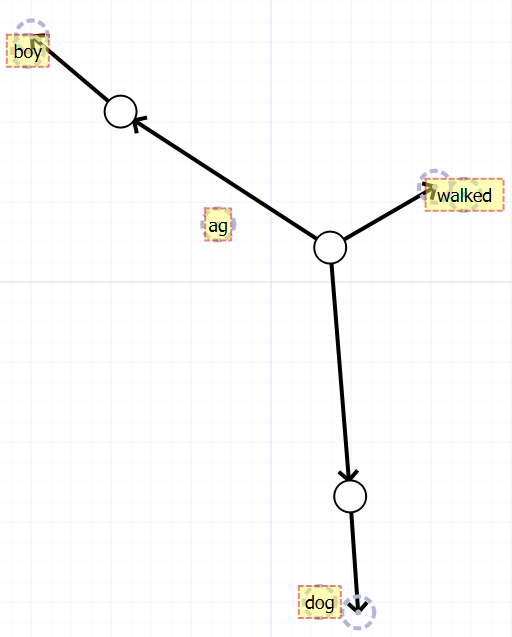
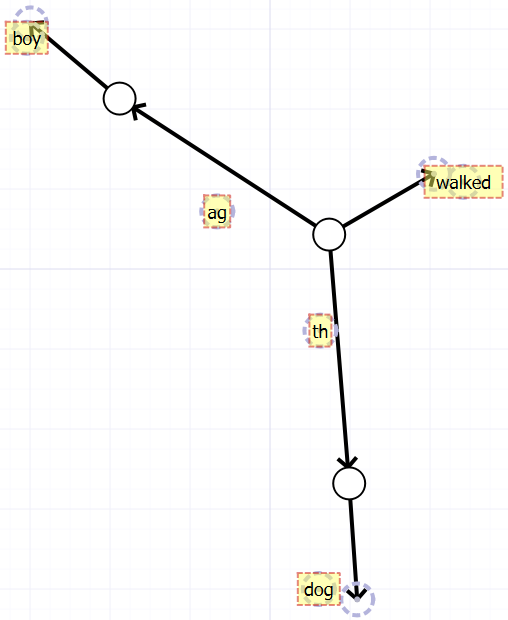
readme

Changed region(s): [[0.0, 0.0, 1.0, 1.0], [0.7087, 0.7661, 0.7382, 0.7968]]

diff --git a/README.md b/README.md
@@ -108,26 +108,27 @@ You can export semgraphs to `tikz` code that can be visually edited by [TikZit](
 <img src="demo/img-tikz-0.png" alt="a boy walked a dog" width="250"/>
 
 ```
->>> print(sc.semantics[0].dot)
+>>> print(sc.semantics[0].tikz)
 \begin{tikzpicture}
 \begin{pgfonlayer}{nodelayer}
-    \node [style=node] (i0) at (-1.88,2.13) {};
-    \node [style=none] (g2u0) at (-2.99,3.07) {};
-    \node [style=node] (i1) at (0.99,-2.68) {};
-    \node [style=none] (g5u0) at (1.09,-4.13) {};
-    \node [style=node] (g3a0) at (0.74,0.43) {};
-    \node [style=none] (g3u0) at (2.05,1.19) {};
-    \node [style=none] (0) at (-3.04,2.89) {boy};
-    \node [style=none] (1) at (0.61,-4.00) {dog};
-    \node [style=none] (2) at (-0.66,0.72) {ag};
-    \node [style=none] (4) at (2.42,1.09) {walked};
+        \node [style=node] (i1) at (-1.88,2.13) {};
+        \node [style=none] (g2u0) at (-2.99,3.07) {};
+        \node [style=node] (i0) at (0.99,-2.68) {};
+        \node [style=none] (g5u0) at (1.09,-4.13) {};
+        \node [style=node] (g3a0) at (0.74,0.43) {};
+        \node [style=none] (g3u0) at (2.05,1.19) {};
+        \node [style=none] (0) at (-3.04,2.89) {boy};
+        \node [style=none] (1) at (0.61,-4.00) {dog};
+        \node [style=none] (2) at (-0.66,0.72) {ag};
+        \node [style=none] (3) at (0.63,-0.77) {th};
+        \node [style=none] (4) at (2.42,1.09) {walked};
 \end{pgfonlayer}
 \begin{pgfonlayer}{edgelayer}
-    \draw [style=arrow] (i0) to (g2u0.center);
-    \draw [style=arrow] (i1) to (g5u0.center);
-    \draw [style=arrow] (g3a0) to (i0);
-    \draw [style=arrow] (g3a0) to (i1);
-    \draw [style=arrow] (g3a0) to (g3u0.center);
+        \draw [style=arrow] (i1) to (g2u0.center);
+        \draw [style=arrow] (i0) to (g5u0.center);
+        \draw [style=arrow] (g3a0) to (i1);
+        \draw [style=arrow] (g3a0) to (i0);
+        \draw [style=arrow] (g3a0) to (g3u0.center);
 \end{pgfonlayer}
 \end{tikzpicture}
 ```
